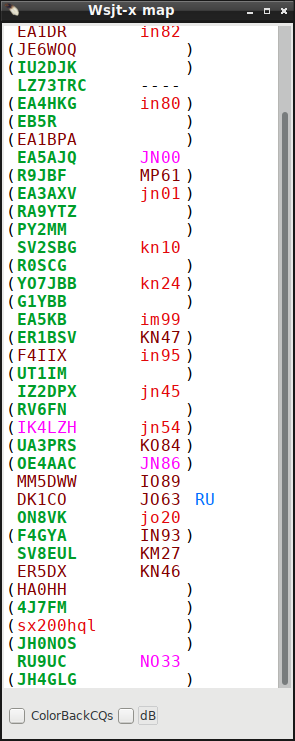
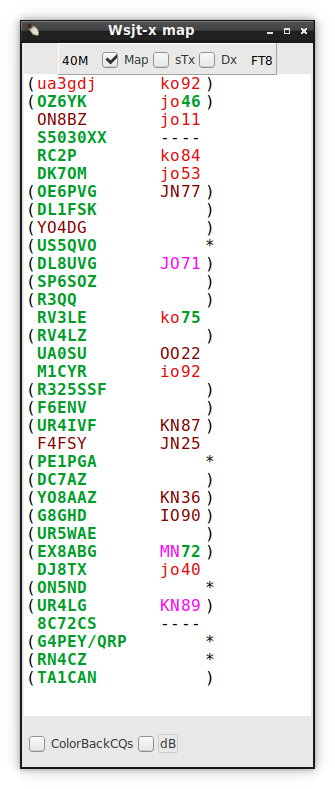
Fix for wsjtx remote and rotor control
wsjtx remote:
	- MSHV UDP packages now show up in WSJT-X CQ-monitor window.
	  Thanks for solution, LB2EG, Richard
	- Wsjtx Map-mode monitor now shows callsigns that are ending their
          qsos, sending RR73 or 73, inside ( *
	  Asterisk replacing closing bracket to note that callsign will be free
          for new qsos.

  Rotor control:
	- Added feature where a click over azimuth display opens input box to
          enter a new azimuth value.
	  This is usefull with rotors that can not do "M" commands (turn left/right)
	  and so buttons Turn left / Turn right do not work. Thanks for idea, WC4H/HI3CH, Carl

	- help files updated

Squashed commit of the following:

commit b962ca6049d9a2f567a2f41437aeeb5f79657b48
Author: OH1KH <oh1kh@sral.fi>
Date:   Mon Nov 8 17:49:27 2021 +0200

    restore cqrlog.lpi

commit f4232700c19221d47d83e117587e553074428afa
Author: OH1KH <oh1kh@sral.fi>
Date:   Mon Nov 8 17:41:28 2021 +0200

    a help picture more

commit 1ec6823ad42e4cc41e6df6018d0806816844585c
Author: OH1KH <oh1kh@sral.fi>
Date:   Mon Nov 8 17:39:40 2021 +0200

    Ror control: code and layout fix. Help files updated

commit 19fbcd48374157ad0bb33b23d68512d2bf5fb3ab
Author: OH1KH <oh1kh@sral.fi>
Date:   Mon Nov 8 15:09:51 2021 +0200

    changed Az input style

commit 6ebac886f98088729a625e4667aa3b00dec84691
Author: OH1KH <oh1kh@sral.fi>
Date:   Mon Nov 8 11:36:08 2021 +0200
[…]

diff --git a/help/h30.html b/help/h30.html
@@ -68,8 +68,8 @@ So do not wonder if you get smaller amount of memories than in your list when pr
 <p>
 
 From NewQSO/Window you can open <strong>Rotor control</strong> window.
-<p><img src="img/h121a.png" name="121a"> <img src="img/h121b.png" name="121b">  
-<img src="img/h121e.png" name="121e"> <img src="img/h121c.png" name="121c"> <img src="img/h121d.png" name="121d">
+<p><img src="img/h121a.png" name="121a"><img src="img/h121aa.png" name="121aa"><img src="img/h121b.png" name="121b">
+<img src="img/h121e.png" name="121e"><img src="img/h121c.png" name="121c"><img src="img/h121d.png" name="121d">
 </p>
 Window shows current position of rotor with <b>numerical display, Short and Long path Buttons and radio buttons to select rotor 1 or rotor 2</b>.
 <br>User can resize window and select <b>additional bar display, direction and stop buttons</b>.
@@ -78,7 +78,8 @@ Window shows current position of rotor with <b>numerical display, Short and Long
 <br><br> When a call is entered to <b>NewQSO</b> callsign field and cursor is moved away from that field <b>DXCC info</b> part gets filled against call prefix and/or locator grid,
  then, when <b>DXCC/AZIM</b> shows a value, it is possible to press <b>Short Path</b> or <b>Long Path buttons</b> and your ro
  tor will turn your antenna to that direction.
-<br>Pressing <b>Stop button</b> stops rotor turning started either with path or turn buttons.</p>
+<br><br>It is also possible to set new direction by a click of <b>Azimuth display</b>, enter new direction value and click <b>OK</b> or press <b>enter key</b>.
+<br><br>Pressing <b>Stop button</b> stops rotor turning started either with path or turn buttons.</p>
 <p>Progress bar displays Az value relative to AzLimits (if Use \dump_state is checked in preferences) so do not wonder if it in some cases may look different than numerical true direction display. 
 <br>If error message is received from rotctld button area turns red. If requested turn command is ok, but az_min or az_maz limits change requested direction from true direction 
 (then antenna may not always reach requested direction) button area will turn yellow as warning sign.

diff --git a/help/wsjt.html b/help/wsjt.html
@@ -211,7 +211,7 @@ cd ~/.config/cqrlog/ctyfiles
 <p>CQ-monitor can be turned to "Band map"- type Wsjt-x map by checking "<strong>Map</strong>". It hides all other controls.
 How ever if alerts were <strong>on</strong> they stay <strong>on</strong>. Exception is that <strong>Text alert</strong> does not find continents and comments like "New country","QSL needed" etc.
 </br>Map-mode shows all traffic on band. Colors of callsigns and locators are same than in CQ-monitor. If call is <strong>not in parentheses</strong> it is a <strong>CQ</strong>-call.
- <strong>Calls in parentheses have qso</strong> if there is no locator shown. If locator is shown they are answering to someones CQ.
+ <strong>Calls in parentheses have qso</strong> if there is no locator shown. If locator is shown they are answering to someones CQ. If <b>closing bracket</b> is replaced with asterisk <b>*</b> it means that callsign is closing his current qso I.E. sending RR73 or 73.
 </br>If station is calling <strong>directed CQ</strong> that is <strong>not directed to you</strong> (same as in CQ-monitor, but in short form)  <strong>the direction </strong> is shown at the and of line.
 </br> 
 </br>As also all other lines than CQs are compared against your log entries this mode will eat more of cpu cycles than CQ-monitor.
